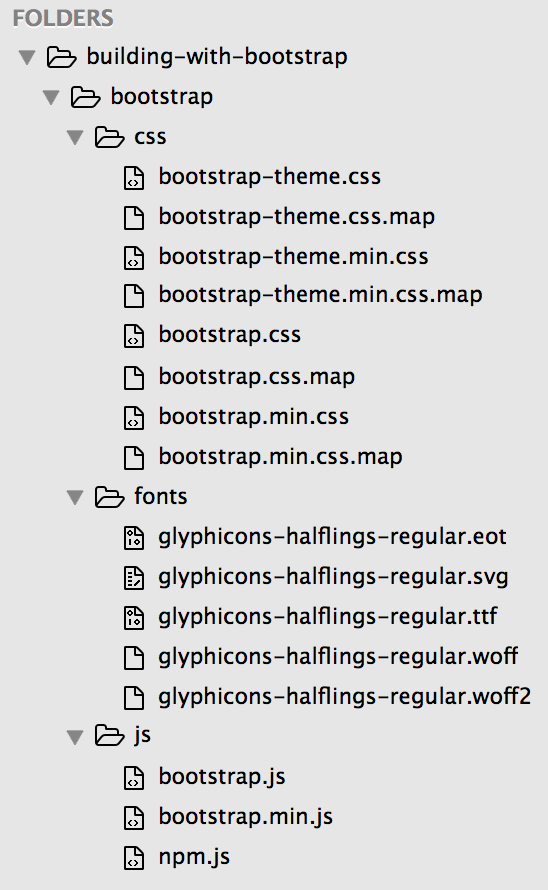
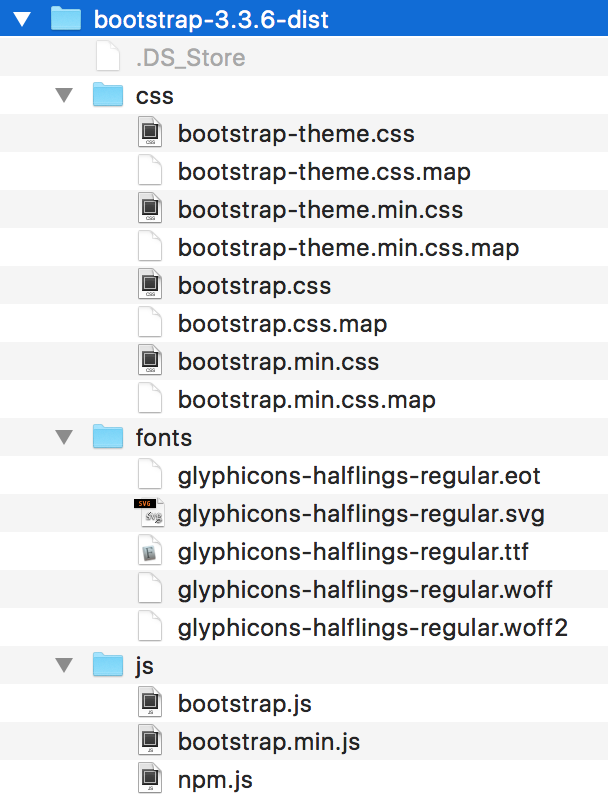
slide updates

diff --git a/index.html b/index.html
@@ -33,7 +33,7 @@
           <div class="meta gold tiny_meta">Network: <span class="white">!!!NETWORK!!!</span></div>
           <div class="meta gold tiny_meta">Password: <span class="white">!!!PASSWORD!!!</span></div>
           <div class="meta gold tiny_meta">Slides: <span class="white">!!!SLIDEURL!!!</span></div>
-          <div class="meta gold tiny_meta">Project Files: <span class="white">!!!DOWNLOADLINK!!!</span></div>
+          <div class="meta gold tiny_meta">Project Files:<br><span class="white"><a href="https://github.com/gdiminneapolis/building-with-bootstrap-project-files/archive/master.zip">github.com/gdiminneapolis/building-with-bootstrap-project-files/archive/master.zip</a></span></div>
         </div>
       </section><!-- intro -->
 
@@ -120,13 +120,13 @@
       <section>
         <h4 class="gold">Also looks good on a tablet</h4>
         <div class="spacer"></div>
-        <img src="assets/images/iPad.png" alt="The Girl Develop It Minneapolis website as viewed on an iPad.">
+        <img src="assets/images/iPad.png" alt="The Girl Develop It Minneapolis website as viewed on an iPad." style="width: 350px;">
       </section><!-- /gdi tablet -->
 
       <section>
         <h4 class="gold">And rad on a smartphone!</h4>
         <div class="spacer"></div>
-        <img src="assets/images/iPhone.png" alt="The Girl Develop It Minneapolis website as viewed on an iPhone 5.">
+        <img src="assets/images/iPhone.png" alt="The Girl Develop It Minneapolis website as viewed on an iPhone 5." style="width: 250px;">
       </section><!-- /gdi mobile -->
 
       <section>
@@ -137,16 +137,16 @@
 
       <section>
         <h2 class="gold">What comes with Bootstrap?</h2>
-        <p class="fragment">If you haven&rsquo;t already, download the project files by going to <a href="#">!!!PROJECTFILESLINK!!!</a>.</p>
+        <p class="fragment">Open your browser and navigate to<br><a href="http://getbootstrap.com/getting-started/#download">getbootstrap.com/getting-started/#download</a>.</p>
         <hr>
-        <p class="fragment">Unzip the <span class="inline_code">building-with-bootstrap.zip</span> file and move the folder somewhere handy (in a sites folder, on your desktop, etc.).</p>
+        <p class="fragment">Click the <span class="gold">Download Bootstrap</span> button.</p>
         <hr>
-        <p class="fragment">Open Sublime Text, then open your <span class="inline_code">building-with-bootstrap</span> folder.</p>
+        <p class="fragment">Unzip the folder you just downloaded.</p>
       </section><!--- /what comes with bootstrap -->
 
       <section>
-        <p>Find the <span class="inline_code">bootstrap</span> folder within your project directory. Toggle the arrow next to it to reveal its contents. Keep toggling the subfolders until you can see all the files.</p>
-        <img src="assets/images/folder-structure.png" alt="The Bootstrap folder structure" style="width: 300px;" class="fragment">
+        <h5 class="uppercase gold">What comes with Bootstrap?</h5>
+        <img src="assets/images/folder-structure.png" alt="The Bootstrap folder structure" style="width: 300px;"\>
       </section><!--- /bootstrap file structure -->
 
       <section>
@@ -223,6 +223,15 @@
 
       <section>
         <h2 class="gold">See it in action</h2>
+        <p class="fragment">If you haven&rsquo;t already, download the project files by going to<br><a href="https://github.com/gdiminneapolis/building-with-bootstrap-project-files/archive/master.zip">github.com/gdiminneapolis/building-with-bootstrap-project-files/archive/master.zip</a>.</p>
+        <hr>
+        <p class="fragment">Unzip the <span class="inline_code">building-with-bootstrap-project-files-master.zip</span> file and move the folder somewhere handy (in a sites folder, on your desktop, etc.).</p>
+        <hr>
+        <p class="fragment">Open Sublime Text, then open your <span class="inline_code">building-with-bootstrap-project-files-master</span> folder.</p>
+      </section>
+
+      <section>
+        <h2 class="gold">See it in action</h2>
         <p class="fragment big_p">Open up <span class="inline_code">slide-demo/container.html</span> in your browser.</p>
         <p class="fragment big_p">Resize your browser to see where the columns break to fit 100% of the width.</p>
       </section><!-- /container.html -->
@@ -260,6 +269,7 @@
               &lt;/div&gt;
             </code>
           </pre>
+          <p class="meta tiny_meta">Columns stay 50% all the way down to mobile; never break down to 100%.</p>
         </div>
       </section><!-- /2 col-xs-6 -->
 
@@ -291,6 +301,7 @@
               &lt;/div&gt;
             </code>
           </pre>
+          <p class="meta tiny_meta">Columns break down to 100% at 992px.</p>
         </div>
       </section><!-- /4 col-xs-3 -->
 
@@ -301,7 +312,7 @@
       <section>
         <p>Open <span class="inline_code">slide-demo/demo.html</span> in Sublime Text.</p>
         <hr>
-        <p class="fragment">Find <span class="inline_code">bootstrap.css</span> inside the <span class="inline_code">bootstrap/</span> folder we downloaded, and add it to the <span class="inline_code">css/</span> folder.</p>
+        <p class="fragment">Find <span class="inline_code">bootstrap.css</span> inside the <span class="inline_code">bootstrap-3.3.6-dist/</span> folder we downloaded, and add it to the <span class="inline_code">slide-demo/css/</span> folder.</p>
         <hr>
         <p class="fragment">Add it to the <span class="inline_code">head</span> of <span class="inline_ccode">index.html</span>.<br><span class="span meta tiny_meta">Remember to use the relative path!</span></p>
         <div class="fragment">
@@ -422,7 +433,7 @@
       <section>
         <p>Open <span class="inline_code">resume/index.html</span> in Sublime Text.</p>
         <hr>
-        <p class="fragment">Find <span class="inline_code">bootstrap.css</span> inside the <span class="inline_code">bootstrap/</span> folder we downloaded, and add it to the <span class="inline_code">css/</span> folder.</p>
+        <p class="fragment">Find <span class="inline_code">bootstrap.css</span> inside the <span class="inline_code">bootstrap-3.3.6-dist/</span> folder we downloaded, and add it to the <span class="inline_code">resume/css/</span> folder.</p>
         <hr>
         <p class="fragment">Add it to the <span class="inline_code">head</span> of <span class="inline_ccode">index.html</span>.<br><span class="span meta tiny_meta">Remember to use the relative path!</span></p>
         <div class="fragment">
@@ -519,7 +530,7 @@
 
       <section>
         <h2 class="gold">Jumbotron</h2>
-        <p class="fragment">Add a jumptron element after the <span class="inline_code">&lt;nav&gt;</span></p>
+        <p class="fragment">Add a jumbotron element after the <span class="inline_code">&lt;nav&gt;</span></p>
         <hr>
         <p class="fragment">Inside the jumbotron, add a <span class="inline_code">h1</span> with your name, and a paragraph element with your job title.</p>
         <hr>
@@ -561,7 +572,7 @@
         <h2 class="gold">Setting up our sections</h2>
         <p class="fragment">Create a <span class="inline_code">section</span> with a nested <span class="inline_code">.container</span></p>
         <hr>
-        <p class="fragment">Add 2 columns, one with a class of <span class="inline_code">.col-md-3</span> and the other with the class of <span class="inline_code">.col-md-9</span><br><span class="meta tiny_meta">Remember the <span class="inline_code">.row</span>!</span></p>
+        <p class="fragment">Create 2 columns, one that spans 1/4 of the container and and one that spans 3/4 of the container. Both of them should break down to 100% on small devices.<br><span class="meta tiny_meta">Remember the <span class="inline_code">.row</span>!</span></p>
         <hr>
         <div class="fragment">
           <p>Let&rsquo;s add some comments to describe what content we want to put inside each column.</p>
@@ -747,7 +758,7 @@
           <code class="language-markup">
             &lt;footer&gt;
                &lt;div class="container text-center"&gt;
-                 &lt;small&gt;&copy; 2016 Your Name&lt;/small&gt;
+                 &lt;small&gt;&amp;copy; 2016 Your Name&lt;/small&gt;
                &lt;/div&gt;
              &lt;/footer&gt;
           </code>
